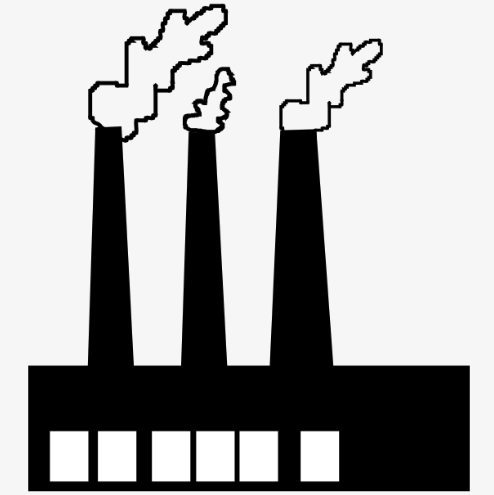
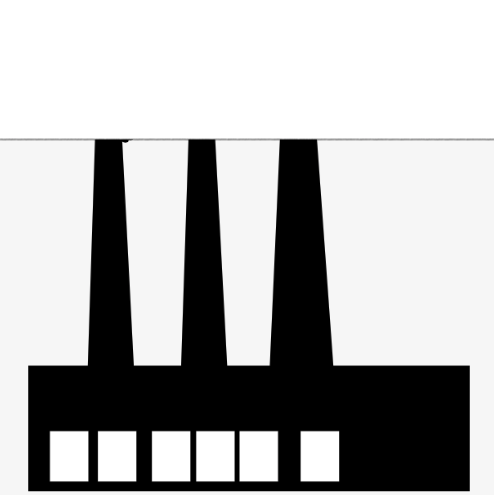
Introduced implementation of image animation. Factory is now animated.

Changed region(s): [[0.0, 0.0, 1.0, 0.303], [0.5769, 0.0606, 0.7895, 0.2121]]

diff --git a/src/boardPieces/FactoryPiece.java b/src/boardPieces/FactoryPiece.java
@@ -9,7 +9,9 @@ public class FactoryPiece extends AbstractBoardPiece implements BoardPieceInterf
 
 	private double dailyIncome;
 	public static double costToConstruct = 100000.0;
-	private static BufferedImage icon; 
+	private static BufferedImage icon;
+	private static BufferedImage icon2;
+	private static BufferedImage icon3;
 
 	public FactoryPiece(int xPos, int yPos) {
 		super(xPos, yPos, "Factory Piece");
@@ -18,6 +20,8 @@ public class FactoryPiece extends AbstractBoardPiece implements BoardPieceInterf
 		if (icon == null) {
 			try {
 				icon = ImageIO.read(getClass().getResource("/boardPieces/FactoryImage.png"));
+				icon2 = ImageIO.read(getClass().getResource("/boardPieces/FactorySecondImage.png"));
+				icon3 = ImageIO.read(getClass().getResource("/boardPieces/FactoryThirdImage.png"));
 			} catch (IOException e) {
 				e.printStackTrace();
 			} catch (Exception e) {
@@ -46,6 +50,17 @@ public class FactoryPiece extends AbstractBoardPiece implements BoardPieceInterf
 		return icon;
 	}
 
+	@Override
+	public BufferedImage getSecondaryImage() {
+		return icon2;
+	}
+
+
+	@Override
+	public BufferedImage getThirdImage() {
+		return icon3;
+	}
+	
 	@Override
 	public void updateCost() {
 		/* Make it more expensive to construct the next one */

diff --git a/src/main/BoardVisualizerWidget.java b/src/main/BoardVisualizerWidget.java
@@ -79,8 +79,16 @@ public class BoardVisualizerWidget extends JPanel implements MouseListener {
 				g2d.drawRect((int) (x * eachCellXWidth), (int) (y * eachCellYWidth), (int) (eachCellXWidth),
 						(int) (eachCellYWidth));
 				/* Visualize the piece inside of the cell */
-				g2d.drawImage(model.getBoard()[y][x].getPieceImage(), (int) (x * eachCellXWidth),
-						(int) (y * eachCellYWidth), (int) (eachCellXWidth), (int) (eachCellYWidth), null);
+				if (model.getDay() % 3 == 0) {
+					g2d.drawImage(model.getBoard()[y][x].getPieceImage(), (int) (x * eachCellXWidth),
+							(int) (y * eachCellYWidth), (int) (eachCellXWidth), (int) (eachCellYWidth), null);
+				} else if (model.getDay() % 3 == 1) {
+					g2d.drawImage(model.getBoard()[y][x].getSecondaryImage(), (int) (x * eachCellXWidth),
+							(int) (y * eachCellYWidth), (int) (eachCellXWidth), (int) (eachCellYWidth), null);
+				} else if (model.getDay() % 3 == 2) {
+					g2d.drawImage(model.getBoard()[y][x].getThirdImage(), (int) (x * eachCellXWidth),
+							(int) (y * eachCellYWidth), (int) (eachCellXWidth), (int) (eachCellYWidth), null);
+				}
 
 			}
 		}

diff --git a/src/boardPieces/HousePiece.java b/src/boardPieces/HousePiece.java
@@ -48,6 +48,18 @@ public class HousePiece extends AbstractBoardPiece implements BoardPieceInterfac
 		return icon;
 	}
 
+
+	@Override
+	public BufferedImage getSecondaryImage() {
+		return getPieceImage();
+	}
+
+
+	@Override
+	public BufferedImage getThirdImage() {
+		return getPieceImage();
+	}
+	
 	@Override
 	public void updateCost() {
 		/* Make it more expensive to construct the next one */

diff --git a/src/boardPieces/RetailPiece.java b/src/boardPieces/RetailPiece.java
@@ -47,6 +47,18 @@ public class RetailPiece extends AbstractBoardPiece implements BoardPieceInterfa
 		return icon;
 	}
 
+
+	@Override
+	public BufferedImage getSecondaryImage() {
+		return getPieceImage();
+	}
+
+
+	@Override
+	public BufferedImage getThirdImage() {
+		return getPieceImage();
+	}
+	
 	@Override
 	public void updateCost() {
 		/* Make it more expensive to construct the next one */

diff --git a/src/boardPieces/ParkPiece.java b/src/boardPieces/ParkPiece.java
@@ -46,6 +46,18 @@ public class ParkPiece extends AbstractBoardPiece implements BoardPieceInterface
 	public BufferedImage getPieceImage() {
 		return icon;
 	}
+	
+
+	@Override
+	public BufferedImage getSecondaryImage() {
+		return getPieceImage();
+	}
+
+
+	@Override
+	public BufferedImage getThirdImage() {
+		return getPieceImage();
+	}
 
 	@Override
 	public void updateCost() {

diff --git a/src/boardPieces/RoadPiece.java b/src/boardPieces/RoadPiece.java
@@ -47,6 +47,17 @@ public class RoadPiece extends AbstractBoardPiece implements BoardPieceInterface
 	public BufferedImage getPieceImage() {
 		return icon;
 	}
+
+	@Override
+	public BufferedImage getSecondaryImage() {
+		return getPieceImage();
+	}
+
+
+	@Override
+	public BufferedImage getThirdImage() {
+		return getPieceImage();
+	}
 	
 	@Override
 	public void updateCost() {

diff --git a/src/boardPieces/GrassPiece.java b/src/boardPieces/GrassPiece.java
@@ -43,6 +43,18 @@ public class GrassPiece extends AbstractBoardPiece implements BoardPieceInterfac
 		return icon;
 	}
 	
+
+	@Override
+	public BufferedImage getSecondaryImage() {
+		return getPieceImage();
+	}
+
+
+	@Override
+	public BufferedImage getThirdImage() {
+		return getPieceImage();
+	}
+	
 	@Override
 	public void updateCost() {
 		return;	

diff --git a/src/boardPieces/WaterPiece.java b/src/boardPieces/WaterPiece.java
@@ -44,6 +44,17 @@ public class WaterPiece extends AbstractBoardPiece implements boardPieces.BoardP
 	}
 
 	@Override
+	public BufferedImage getSecondaryImage() {
+		return getPieceImage();
+	}
+
+
+	@Override
+	public BufferedImage getThirdImage() {
+		return getPieceImage();
+	}
+
+	@Override
 	public void updateCost() {
 		return;	
 	}

diff --git a/src/main/Model.java b/src/main/Model.java
@@ -164,6 +164,7 @@ public class Model {
 		this.balance += this.getDailyIncome();
 		notifyObservers(ModelObserver.EventTypes.BALANCE_CHANGED);
 		notifyObservers(ModelObserver.EventTypes.DAY_CHANGED);
+		notifyObservers(ModelObserver.EventTypes.BOARD_CHANGED);
 		this.addToBalance(this.getHappiness()*100);
 		recomputeHappiness();
 	}

diff --git a/src/boardPieces/ApartmentPiece.java b/src/boardPieces/ApartmentPiece.java
@@ -56,4 +56,16 @@ public class ApartmentPiece extends AbstractBoardPiece implements BoardPieceInte
 		costToConstruct *= (1 + Math.random());		
 	}
 
+
+	@Override
+	public BufferedImage getSecondaryImage() {
+		return getPieceImage();
+	}
+
+
+	@Override
+	public BufferedImage getThirdImage() {
+		return getPieceImage();
+	}
+
 }

diff --git a/src/boardPieces/BoardPieceInterface.java b/src/boardPieces/BoardPieceInterface.java
@@ -36,6 +36,8 @@ public interface BoardPieceInterface {
 	 * to use
 	 */
 	public BufferedImage getPieceImage();
+	public BufferedImage getSecondaryImage();
+	public BufferedImage getThirdImage();
 	
 	/*
 	 * As successive units of a piece are constructed, we want the price of construction to increase

diff --git a/src/boardPieces/AbstractBoardPiece.java b/src/boardPieces/AbstractBoardPiece.java
@@ -45,4 +45,8 @@ public abstract class AbstractBoardPiece implements boardPieces.BoardPieceInterf
 	public abstract BufferedImage getPieceImage();
 	
 	public abstract void updateCost();
+	
+	public abstract BufferedImage getSecondaryImage();
+	
+	public abstract BufferedImage getThirdImage();
 }
